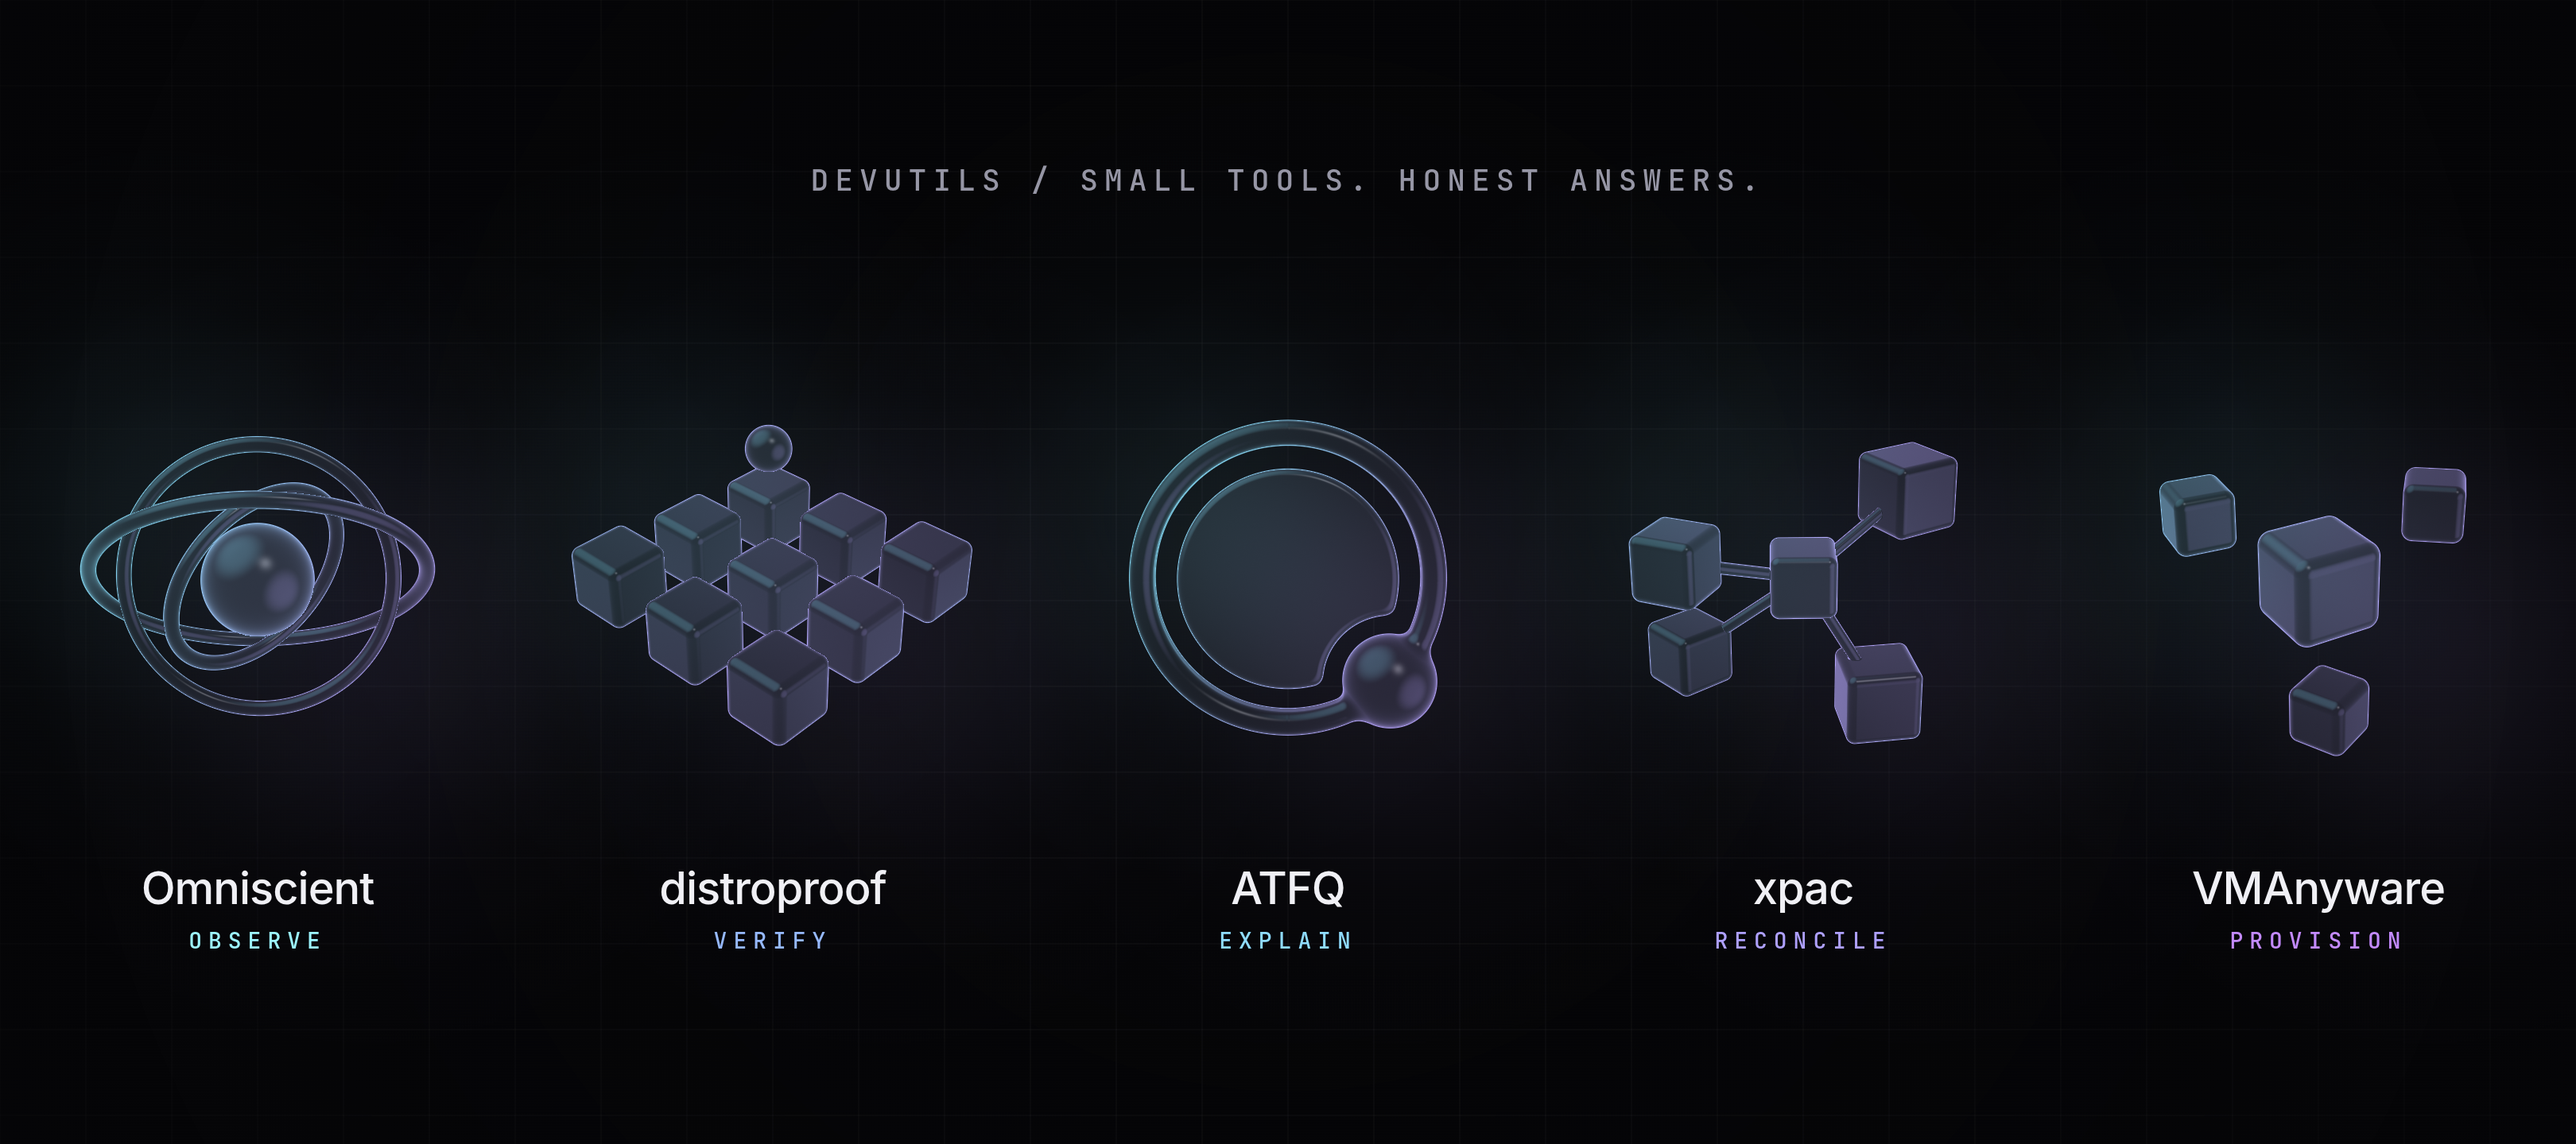
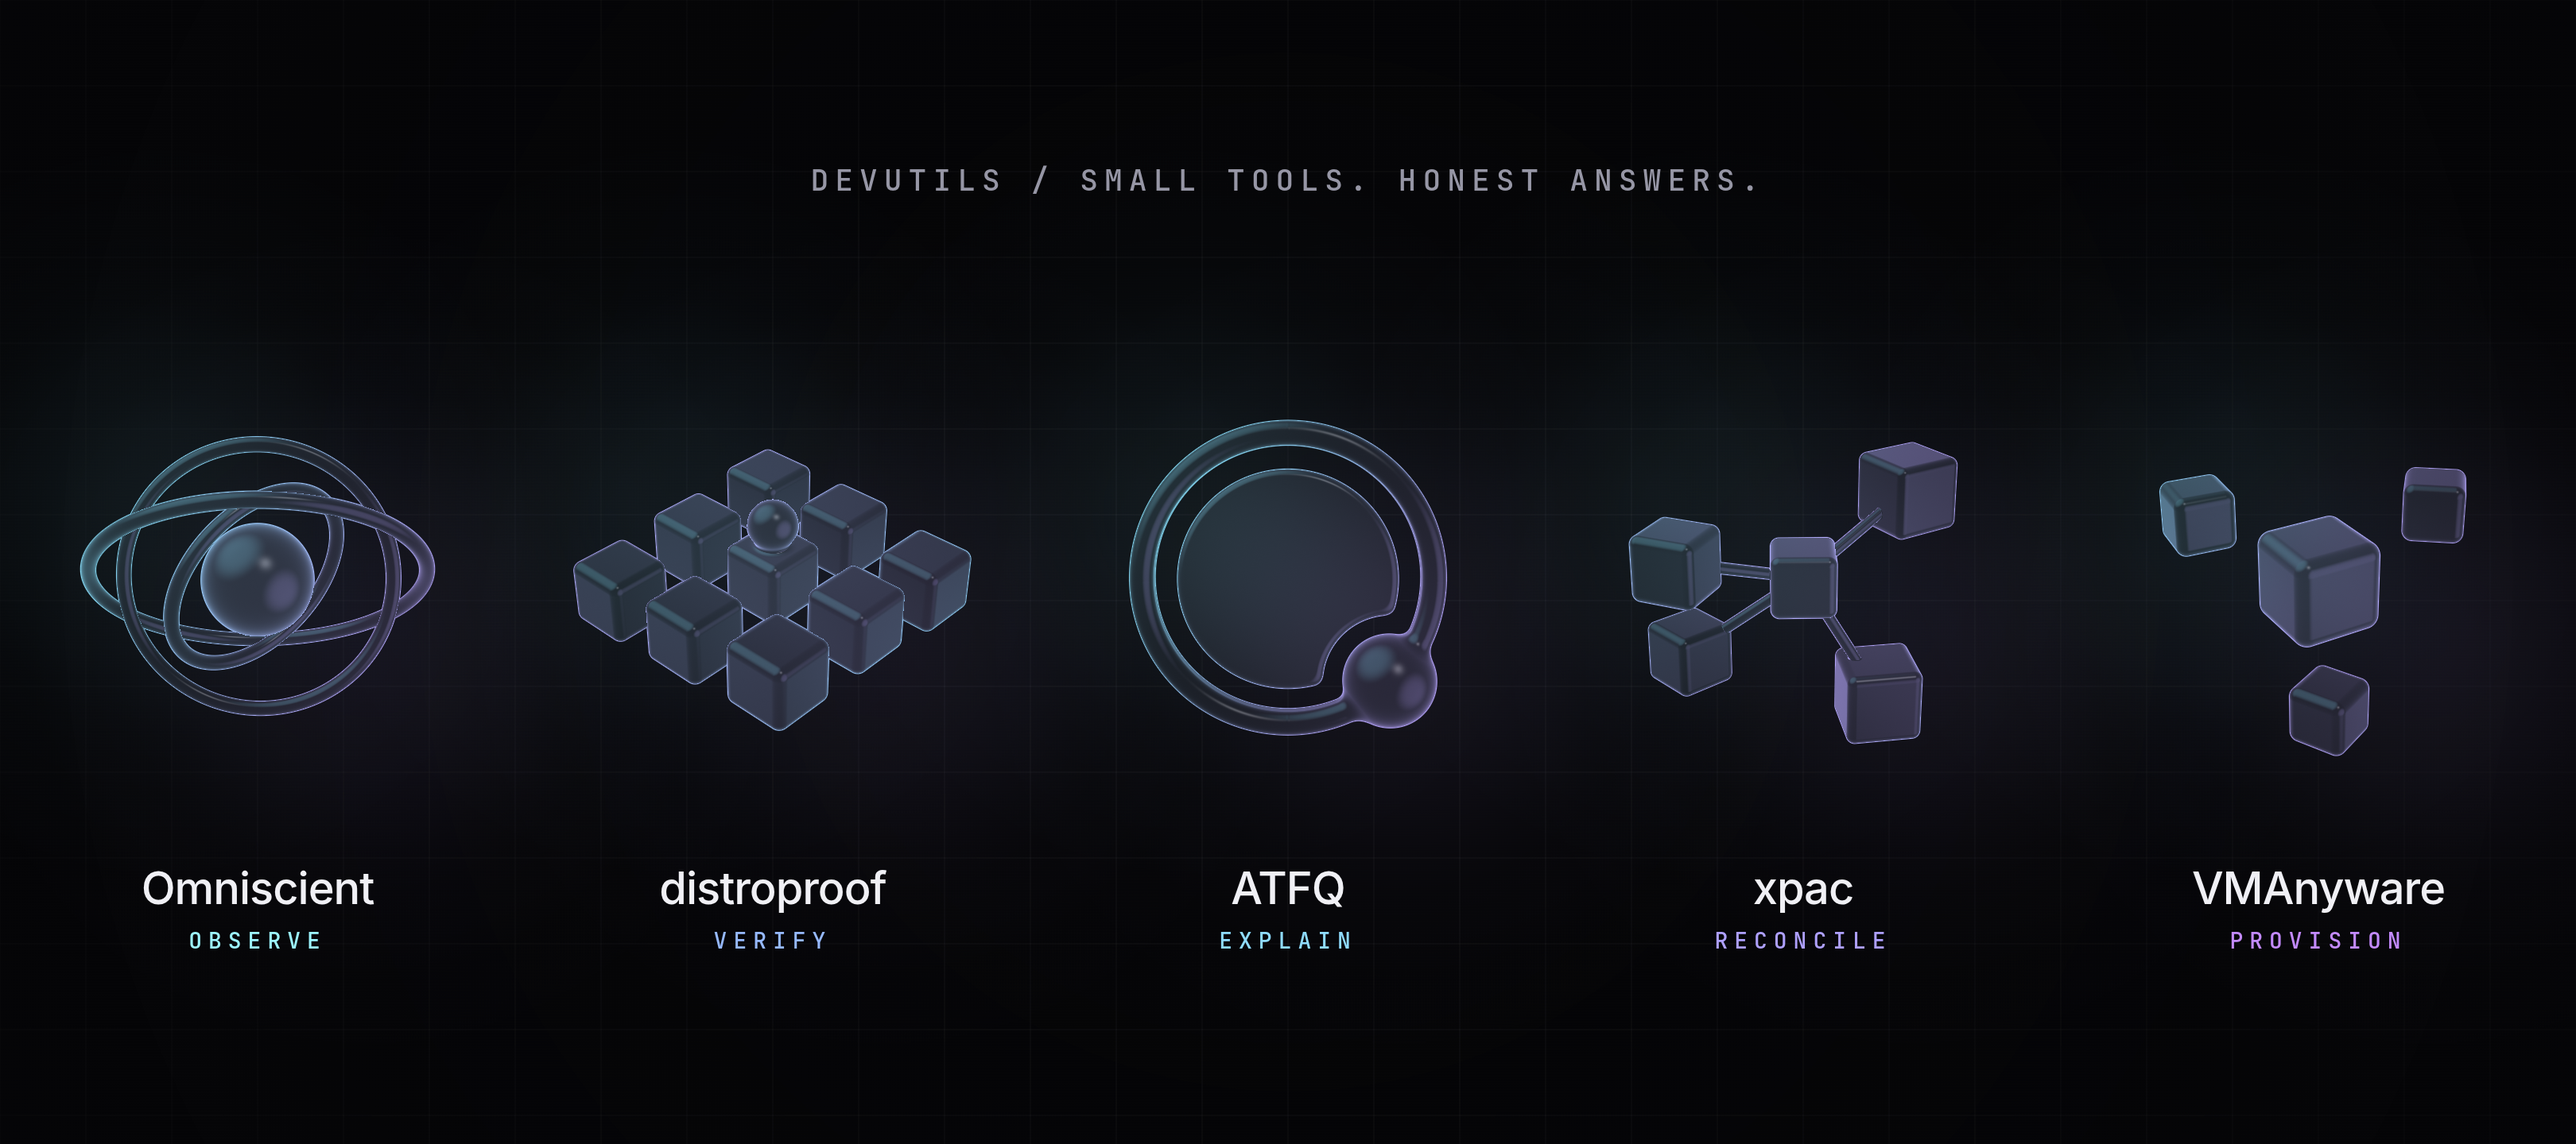
Instagram: distroproof's bead on the middle target
The bead's moment comes from time 9.3, the grid's turn from the earlier
pose, which faces it square on.

Changed region(s): [[0.2182, 0.375, 0.3741, 0.6562], [0.2182, 0.5312, 0.2494, 0.5625]]

diff --git a/social/instagram.js b/social/instagram.js
@@ -162,10 +162,13 @@ function drawGlass(list) {
     gl.enableVertexAttribArray(0)
     gl.vertexAttribPointer(0, 3, gl.FLOAT, false, 0, 0)
     const u = (n) => gl.getUniformLocation(prog, n)
-    // a pose: a moment of each shape's own slow motion, tilted as on the site
-    const t = { omn: 0, mark: 0, distroproof: 5.3, xpac: 4.1, vmanyware: 3.6 }[look[s.id].shape]
+    // a pose: a moment of each shape's own slow motion, tilted as on the site.
+    // Omniscient at time 0, as in the LinkedIn visual; distroproof when its
+    // bead rests on the middle target (two seconds per target, 4 × 2.2 + 0.5).
+    const t = { omn: 0, mark: 0, distroproof: 9.3, xpac: 4.1, vmanyware: 3.6 }[look[s.id].shape]
     const [rx, ry] = shape.rot
-    const b = ry + t * shape.spin
+    // the turn of the earlier pose, which faces the grid square on
+    const b = ry + (look[s.id].shape === 'distroproof' ? 5.3 : t) * shape.spin
     const cx = Math.cos(rx), sx = Math.sin(rx), cy = Math.cos(b), sy = Math.sin(b)
     gl.uniform2f(u('uCenter'), s.x, H - s.y)
     gl.uniform1f(u('uScale'), r)
